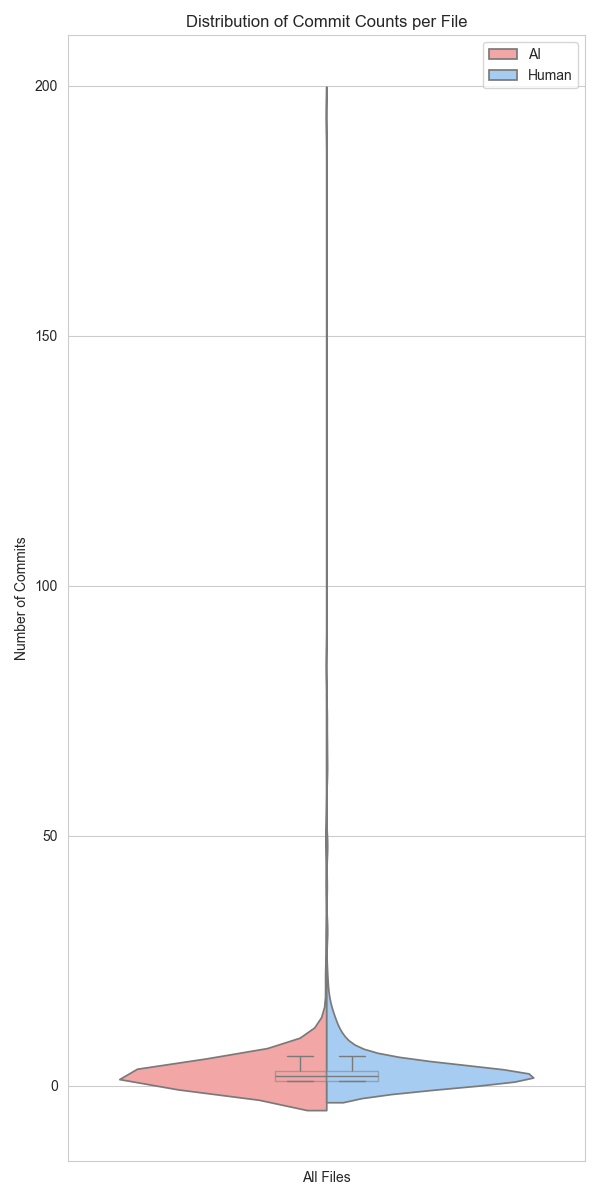
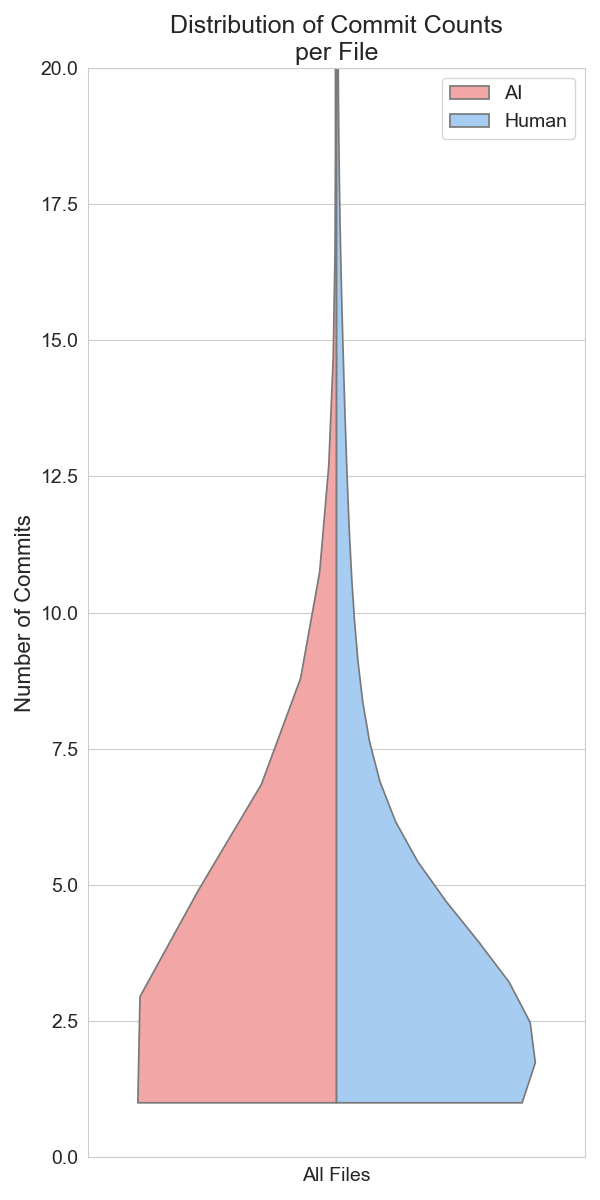
RQ1,2,3の分析プログラムの作成と結果の共有

diff --git a/src/RQ2_analyze.py b/src/RQ2_analyze.py
@@ -1,0 +1,156 @@
+import pandas as pd
+import matplotlib.pyplot as plt
+import os
+from datetime import datetime
+
+def analyze_rq2():
+    """
+    RQ2: AI作成ファイルの保守は誰が行っているのかを分析
+    
+    入力: results_v4.csv
+    出力: 
+        - results/RQ2_results.txt
+        - results/RQ2_pieChart_AI.png
+        - results/RQ2_pieChart_Human.png
+    """
+    
+    # パス設定
+    script_dir = os.path.dirname(os.path.abspath(__file__))
+    csv_path = os.path.join(script_dir, "../results/results_v4.csv")
+    output_dir = os.path.join(script_dir, "../results")
+    os.makedirs(output_dir, exist_ok=True)
+    
+    output_txt_path = os.path.join(output_dir, "RQ2_results.txt")
+    
+    print(f"読み込み中: {csv_path}")
+    try:
+        df = pd.read_csv(csv_path)
+    except Exception as e:
+        print(f"CSV読み込みエラー: {e}")
+        return
+
+    # 結果格納用リスト
+    results_text = []
+    results_text.append("RQ2 分析結果: AI作成ファイルの保守主体分析")
+    results_text.append("=" * 60)
+    results_text.append(f"分析日時: {datetime.now().strftime('%Y-%m-%d %H:%M:%S')}")
+    results_text.append("")
+
+    # ---------------------------------------------------------
+    # 1. AI作成ファイルに対するコミット分析
+    # ---------------------------------------------------------
+    print("AI作成ファイルの分析中...")
+    
+    ai_files_df = df[df['file_created_by'] == 'AI']
+    ai_commit_counts = ai_files_df['commit_created_by'].value_counts()
+    
+    ai_total_commits = ai_commit_counts.sum()
+    ai_ai_commits = ai_commit_counts.get('AI', 0)
+    ai_human_commits = ai_commit_counts.get('Human', 0)
+    
+    ai_ai_ratio = (ai_ai_commits / ai_total_commits * 100) if ai_total_commits > 0 else 0
+    ai_human_ratio = (ai_human_commits / ai_total_commits * 100) if ai_total_commits > 0 else 0
+    
+    results_text.append("1. AI作成ファイルに対するコミット内訳")
+    results_text.append("-" * 40)
+    results_text.append(f"総コミット数: {ai_total_commits}")
+    results_text.append(f"AIによるコミット: {ai_ai_commits} ({ai_ai_ratio:.2f}%)")
+    results_text.append(f"人間によるコミット: {ai_human_commits} ({ai_human_ratio:.2f}%)")
+    results_text.append("")
+
+    # 円グラフ作成 (AI作成ファイル)
+    create_pie_chart(
+        counts=[ai_ai_commits, ai_human_commits],
+        labels=['AI', 'Human'],
+        title="AI-Created Files",
+        output_path=os.path.join(output_dir, "RQ2_pieChart_AI.png")
+    )
+
+    # ---------------------------------------------------------
+    # 2. 人間作成ファイルに対するコミット分析
+    # ---------------------------------------------------------
+    print("人間作成ファイルの分析中...")
+    
+    human_files_df = df[df['file_created_by'] == 'Human']
+    human_commit_counts = human_files_df['commit_created_by'].value_counts()
+    
+    human_total_commits = human_commit_counts.sum()
+    human_ai_commits = human_commit_counts.get('AI', 0)
+    human_human_commits = human_commit_counts.get('Human', 0)
+    
+    human_ai_ratio = (human_ai_commits / human_total_commits * 100) if human_total_commits > 0 else 0
+    human_human_ratio = (human_human_commits / human_total_commits * 100) if human_total_commits > 0 else 0
+    
+    results_text.append("2. 人間作成ファイルに対するコミット内訳")
+    results_text.append("-" * 40)
+    results_text.append(f"総コミット数: {human_total_commits}")
+    results_text.append(f"AIによるコミット: {human_ai_commits} ({human_ai_ratio:.2f}%)")
+    results_text.append(f"人間によるコミット: {human_human_commits} ({human_human_ratio:.2f}%)")
+    results_text.append("")
+
+    # 円グラフ作成 (人間作成ファイル)
+    create_pie_chart(
+        counts=[human_ai_commits, human_human_commits],
+        labels=['AI', 'Human'],
+        title="Human-Created Files",
+        output_path=os.path.join(output_dir, "RQ2_pieChart_Human.png")
+    )
+
+    # 結果保存
+    with open(output_txt_path, 'w', encoding='utf-8') as f:
+        f.write("\n".join(results_text))
+    
+    print(f"分析完了。結果を保存しました: {output_txt_path}")
+    print(f"グラフを保存しました: {output_dir}")
+
+def create_pie_chart(counts, labels, title, output_path):
+    """
+    円グラフを作成して保存する
+    """
+    plt.figure(figsize=(8, 8))
+    
+    # 色の設定 (AI: 赤系, Human: 青系)
+    colors = ['#FF9999', '#99CCFF']
+    
+    # データが0の場合は表示しないための処理
+    filtered_counts = []
+    filtered_labels = []
+    filtered_colors = []
+    
+    for count, label, color in zip(counts, labels, colors):
+        if count > 0:
+            filtered_counts.append(count)
+            filtered_labels.append(label)
+            filtered_colors.append(color)
+            
+    if not filtered_counts:
+        print(f"警告: プロット用データがありません - {output_path}")
+        plt.close()
+        return
+
+    # パーセンテージと件数を表示するための関数
+    def make_autopct(values):
+        def my_autopct(pct):
+            total = sum(values)
+            val = int(round(pct*total/100.0))
+            return '{v:d}\n({p:.1f}%)'.format(v=val, p=pct)
+        return my_autopct
+
+    plt.pie(
+        filtered_counts, 
+        labels=filtered_labels, 
+        colors=filtered_colors, 
+        autopct=make_autopct(filtered_counts), 
+        startangle=90, 
+        counterclock=False,
+        wedgeprops={'edgecolor': 'white'},
+        textprops={'fontsize': 16}
+    )
+    
+    plt.title(title, fontsize=20)
+    plt.tight_layout()
+    plt.savefig(output_path)
+    plt.close()
+
+if __name__ == "__main__":
+    analyze_rq2()

diff --git a/src/RQ3_analyze.py b/src/RQ3_analyze.py
@@ -1,0 +1,122 @@
+import pandas as pd
+import matplotlib.pyplot as plt
+import os
+
+def analyze_commit_classification():
+    # ファイルパスの定義
+    base_dir = os.path.dirname(os.path.abspath(__file__))
+    input_file = os.path.join(base_dir, '..', 'results', 'results_v4.csv')
+    output_txt = os.path.join(base_dir, '..', 'results', 'RQ3_results.txt')
+    output_img_ai = os.path.join(base_dir, '..', 'results', 'RQ3_pieChart_AI.png')
+    output_img_human = os.path.join(base_dir, '..', 'results', 'RQ3_pieChart_Human.png')
+
+    # CSVファイルの読み込み
+    try:
+        df = pd.read_csv(input_file)
+    except FileNotFoundError:
+        print(f"Error: File not found at {input_file}")
+        return
+
+    # AIと人間が作成したファイルのデータをフィルタリング
+    ai_df = df[df['file_created_by'] == 'AI']
+    human_df = df[df['file_created_by'] == 'Human']
+
+    # コミット分類の分析
+    ai_counts = ai_df['commit_classification'].value_counts()
+    human_counts = human_df['commit_classification'].value_counts()
+
+    ai_total = len(ai_df)
+    human_total = len(human_df)
+
+    # 出力テキストの準備
+    output_lines = []
+    
+    output_lines.append("AI Created Files")
+    output_lines.append(f"Total Commits: {ai_total}")
+    for commit_type, count in ai_counts.items():
+        percentage = (count / ai_total) * 100 if ai_total > 0 else 0
+        output_lines.append(f"{commit_type}: {count} ({percentage:.2f}%)")
+    
+    output_lines.append("\nHuman Created Files Commit Classification:")
+    output_lines.append(f"Total Commits: {human_total}")
+    for commit_type, count in human_counts.items():
+        percentage = (count / human_total) * 100 if human_total > 0 else 0
+        output_lines.append(f"{commit_type}: {count} ({percentage:.2f}%)")
+
+    # テキストファイルへの書き込み
+    with open(output_txt, 'w', encoding='utf-8') as f:
+        f.write('\n'.join(output_lines))
+    print(f"Results written to {output_txt}")
+
+    # 円グラフの生成
+    def create_pie_chart(counts, title, output_path):
+        if counts.empty:
+            print(f"No data for {title}")
+            return
+        
+        # 値の降順でカウントをソート
+        counts = counts.sort_values(ascending=False)
+        total_val = counts.sum()
+        
+        plot_values = []
+        plot_labels = []
+        legend_labels = [] # 凡例用の全ラベルリスト
+        
+        # 表示閾値（3%未満は表示しない）
+        threshold = 0.03
+
+        for i, (index, value) in enumerate(zip(counts.index, counts.values)):
+            plot_values.append(value)
+            percentage = value / total_val
+            
+            # 凡例用には全ての項目を作成（個別にパーセンテージ表示）
+            legend_labels.append(f'{index} ({percentage*100:.1f}%)')
+
+            # 3%未満はラベルを表示しない（まとめる機能は削除）
+            if percentage >= threshold:
+                plot_labels.append(index)
+            else:
+                plot_labels.append("")
+
+        # autopct用の関数（件数とパーセンテージを表示）
+        def autopct_format(pct):
+            # 閾値未満の場合は表示しない
+            if pct < threshold * 100:
+                return ""
+            val = int(round(pct * total_val / 100.0))
+            return f'{val}\n({pct:.1f}%)'
+
+        plt.figure(figsize=(14, 10)) # 図のサイズを拡大
+        
+        # 円グラフのプロット
+        # autopctを追加し、戻り値を受け取る変数を変更
+        patches, texts, autotexts = plt.pie(
+            plot_values, 
+            labels=plot_labels, # 円グラフの外側にラベル（名前）
+            startangle=90,
+            counterclock=False,
+            textprops={'fontsize': 25}, # 外側のラベルのフォントサイズを拡大
+            autopct=autopct_format,     # 内側に件数とパーセンテージを表示
+            pctdistance=0.75,           # 内側のテキストの位置
+            labeldistance=1.1           # 外側のラベルの位置
+        )
+        
+        # 内側のテキスト（autotexts）のスタイル調整
+        for autotext in autotexts:
+            autotext.set_fontsize(23) # 内側のテキストのフォントサイズを拡大
+            autotext.set_color('black')
+        
+        # 凡例には全ての項目を表示
+        plt.legend(patches, legend_labels, loc="best", fontsize=12, bbox_to_anchor=(1, 0.5))
+        plt.title(title, fontsize=25, pad=40) # タイトルのフォントサイズを拡大、グラフとの間隔を広げる
+        plt.axis('equal')  # アスペクト比を等しくして円グラフを円形に描画
+        plt.tight_layout()
+        plt.savefig(output_path)
+        plt.close()
+        print(f"Pie chart saved to {output_path}")
+
+    create_pie_chart(ai_counts, 'AI Created Files', output_img_ai)
+    create_pie_chart(human_counts, 'Human Created Files', output_img_human)
+
+if __name__ == "__main__":
+    analyze_commit_classification()

diff --git a/src/RQ1_analyze.py b/src/RQ1_analyze.py
@@ -100,9 +100,10 @@ def analyze_rq1():
     create_violin_plot(
         data_ai=ai_commit_counts,
         data_human=human_commit_counts,
-        title="Distribution of Commit Counts per File",
+        title="Distribution of Commit Counts\nper File",
         ylabel="Number of Commits",
-        output_path=os.path.join(output_dir, "RQ1_violinPlot_count.png")
+        output_path=os.path.join(output_dir, "RQ1_violinPlot_count.png"),
+        ylim=20
     )
 
     # ---------------------------------------------------------
@@ -171,18 +172,20 @@ def analyze_rq1():
     create_violin_plot(
         data_ai=pd.Series(ai_weekly_medians),
         data_human=pd.Series(human_weekly_medians),
-        title="Distribution of Weekly Commit Frequency (Median per File)",
+        title="Distribution of Weekly Commit Frequency\n(Median per File)",
         ylabel="Median Commits per Week",
-        output_path=os.path.join(output_dir, "RQ1_violinPlot_frequency_weekly.png")
+        output_path=os.path.join(output_dir, "RQ1_violinPlot_frequency_weekly.png"),
+        ylim=0.2
     )
     
     # バイオリンプロット作成 (月間頻度)
     create_violin_plot(
         data_ai=pd.Series(ai_monthly_medians),
         data_human=pd.Series(human_monthly_medians),
-        title="Distribution of Monthly Commit Frequency (Median per File)",
+        title="Distribution of Monthly Commit Frequency\n(Median per File)",
         ylabel="Median Commits per Month",
-        output_path=os.path.join(output_dir, "RQ1_violinPlot_frequency_monthly.png")
+        output_path=os.path.join(output_dir, "RQ1_violinPlot_frequency_monthly.png"),
+        ylim=3
     )
 
     # 結果保存
@@ -216,7 +219,7 @@ def calculate_period_median(commit_dates, start_date, end_date, days):
         
     return np.median(counts)
 
-def create_violin_plot(data_ai, data_human, title, ylabel, output_path):
+def create_violin_plot(data_ai, data_human, title, ylabel, output_path, ylim=None):
     """
     バイオリンプロットを作成して保存する
     """
@@ -247,30 +250,23 @@ def create_violin_plot(data_ai, data_human, title, ylabel, output_path):
         hue='Type', 
         split=True, 
         inner=None, # 中身を描かない
-        palette={"AI": "#FF9999", "Human": "#99CCFF"}
-    )
-    
-    # 2. 箱ひげ図を重ねる
-    # widthを小さくしてバイオリンの中に収まるようにする
-    sns.boxplot(
-        data=df_plot, 
-        x='Dummy', 
-        y='Value', 
-        hue='Type',
-        width=0.2, # 幅を狭く設定
-        fliersize=0, # 外れ値（点）は表示しない（バイオリンで分布が見えるため）
         palette={"AI": "#FF9999", "Human": "#99CCFF"},
-        ax=ax,
-        boxprops={'alpha': 0.5} # 半透明
+        cut=0 # 範囲外の表示をしない
     )
     
-    plt.title(title)
-    plt.ylabel(ylabel)
-    plt.xlabel("") # x軸ラベルは不要
+    if ylim is not None:
+        plt.ylim(0, ylim)
+    
+    plt.title(title, fontsize=18)
+    plt.ylabel(ylabel, fontsize=16)
+    plt.xlabel("", fontsize=16) # x軸ラベルは不要
+    
+    # 目盛りの文字サイズ変更
+    plt.tick_params(axis='both', which='major', labelsize=14)
     
     # 凡例の整理（重複を防ぐため、最初の2つだけ表示）
     handles, labels = ax.get_legend_handles_labels()
-    plt.legend(handles[:2], labels[:2], title="")
+    plt.legend(handles[:2], labels[:2], title="", fontsize=14)
     
     plt.tight_layout()
     plt.savefig(output_path)
